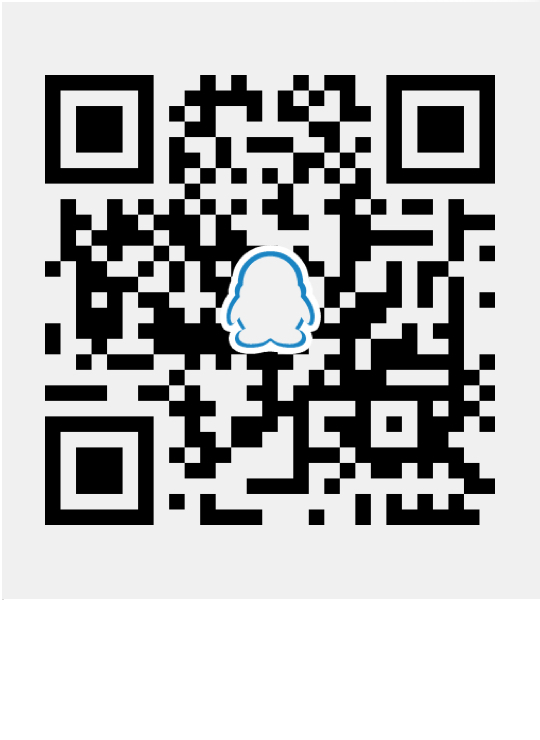
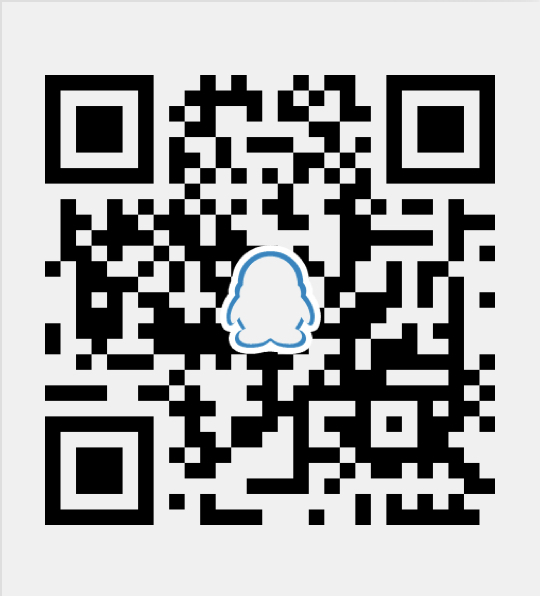
replace image

diff --git a/README.md b/README.md
@@ -26,7 +26,7 @@ HHL110120, 929097264@qq.com
 
 ## QQ Contact group
 if you you QQ you can use this Qrcode to contact with us
-![](https://github.com/xindizhiyin2014/JKRouter/blob/master/JKRouter.jpeg?raw=true)
+![](https://github.com/xindizhiyin2014/JKRouter/blob/master/JKRouter.png?raw=true)
 
 ## License
 
